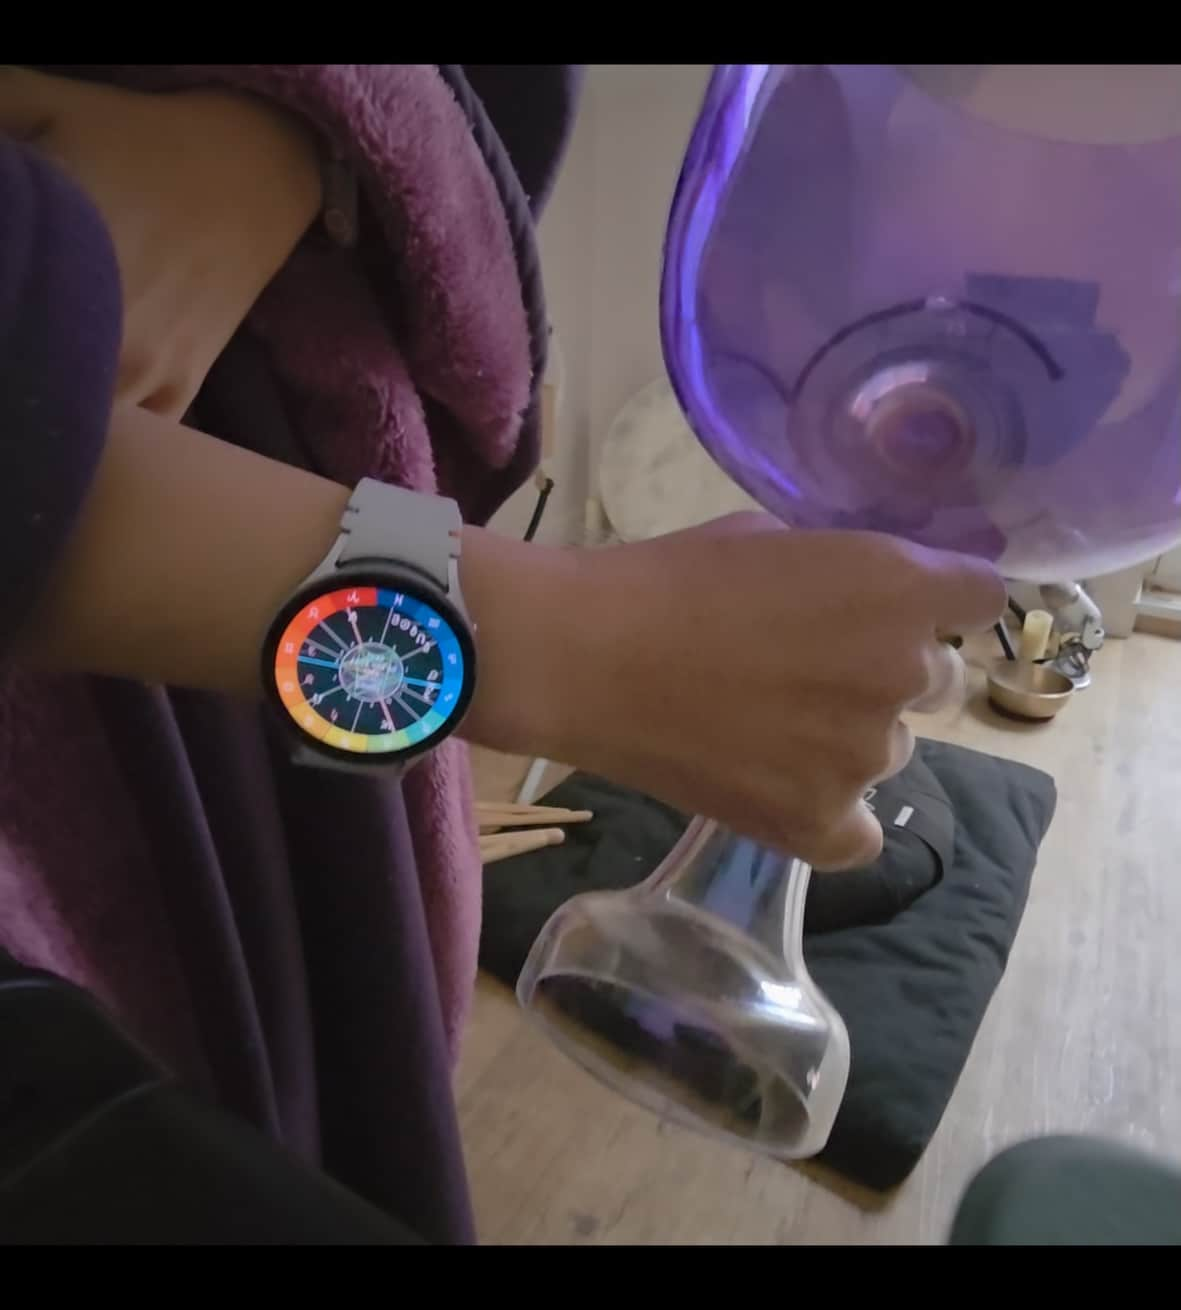
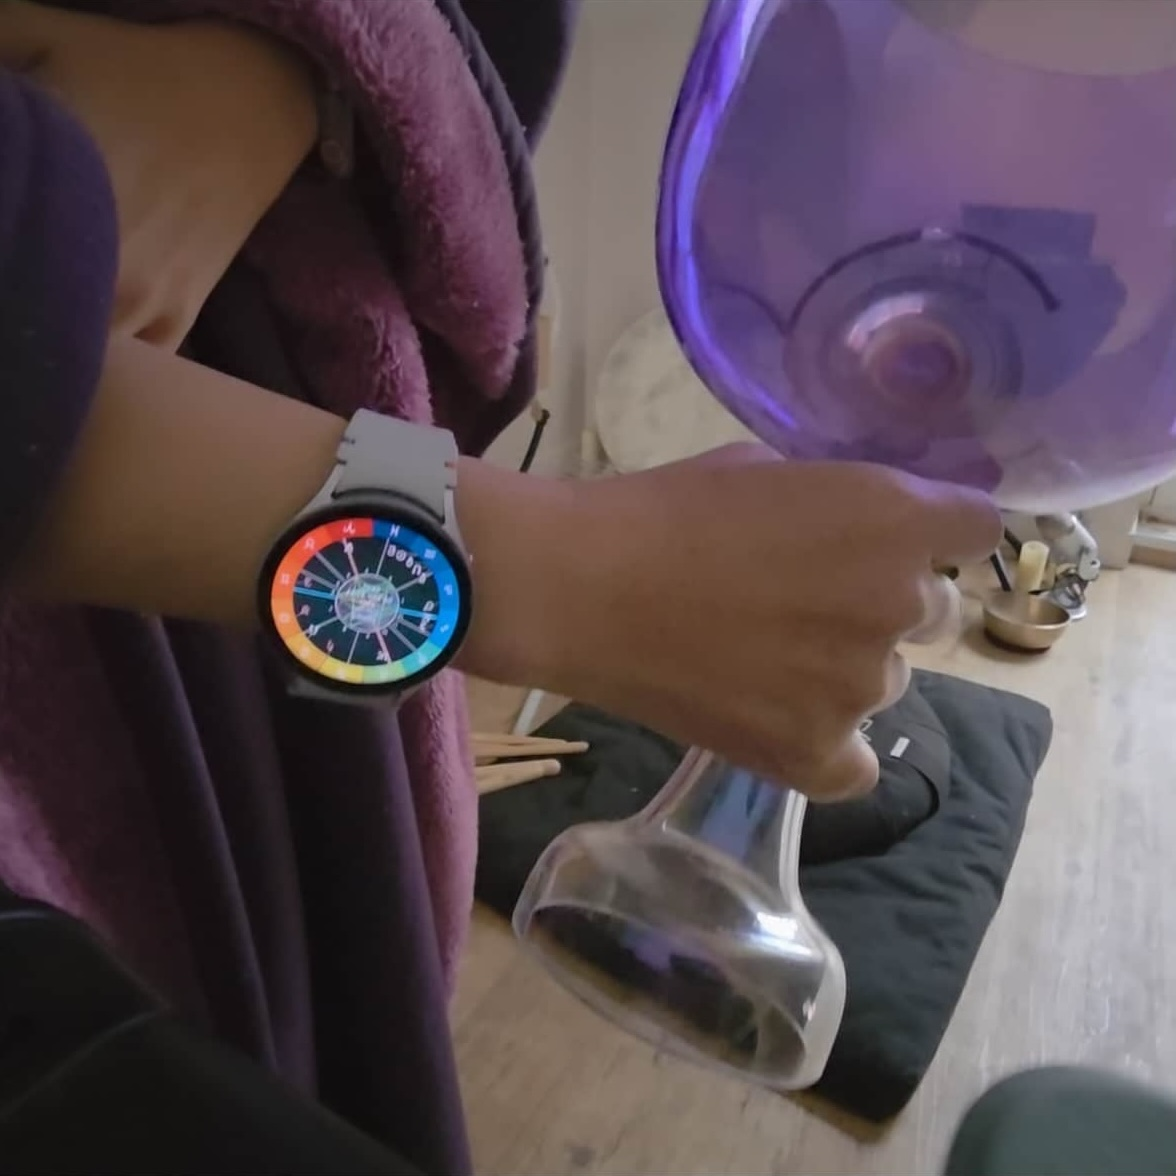
Layout updates

diff --git a/solar-jewel-main.html b/solar-jewel-main.html
@@ -874,7 +874,7 @@
                 <!-- Row 4 (REVERSED): Display Grid Sheet Left, Matrix Copy Right -->
                 <div class="colors-grid colors-grid--reverse">
                     <div class="colors-grid__item">
-                        <h2 style="margin-top: 0 !important;">User Experience Architecture</h2>
+                        <h2 style="margin-top: 0 !important;">User Experience Engineering</h2>
                         <p>I was determined to make the interface as intuitive as possible, though instructions can still be found in the menu if ever needed.</p>
                         <p><strong>A discrete secret for professionals:</strong> You can compare ancient and contemporary geometric spatial framing systems (including Placidus, Porphyry, and several alternate calculation frameworks) dynamically with a responsive horizontal wipe shortcut layout.</p>
                     </div>
@@ -931,29 +931,51 @@
                     </div>
                 </div>
                 
+  
+                                        <h2 style="margin-top: 0 !important;">Quiet Companion</h2>
+                                        <p>It is intended to serve as a quiet companion that provides glanceable enchantment while keeping our hands free for the work of living. So a dedicated partner for those who seek to walk between worlds.</p>
+
                 
                 
-                <!-- Editorial Row Elements (Sequential Media Gallery Layout) -->
-                <p><strong>Quiet Companion</strong></p>
-                <p>It is intended to serve as a quiet companion that provides glanceable enchantment while keeping our hands free for the work of living. So a dedicated partner for those who seek to walk between worlds.</p>
-                
-                <div class="photography-grid__item" style="margin-bottom: 40px;">
-                    <img class="image-100" id="solarjewel-detail" src="img/solarjewel/solarjewel-ceremony-03.jpg" alt="Ceremonial environmental usage profile picture">
+                <div class="colors-grid">
+<!--                    <div class="colors-grid__item">-->
+<!--                        <h2 style="margin-top: 0 !important;">Quiet Companion</h2>-->
+<!--                        <p>It is intended to serve as a quiet companion that provides glanceable enchantment while keeping our hands free for the work of living. So a dedicated partner for those who seek to walk between worlds.</p>-->
+<!--                        -->
+<!--                    </div>-->
+                    
+                    <div class="pcolors-grid__item" style="margin-bottom: 60px;">
+                        <img class="image-100" id="solarjewel-detail" src="img/solarjewel/solarjewel-ceremony-04.jpg" alt="A quiet visual sanctuary display of data safety parameters">
+                    </div>
+                    
+                    <div class="colors-grid__item">
+                        <img class="image-100" id="colors-02" src="img/solarjewel/solarjewel-ceremony-03.jpg" alt="SolarJewel app displayed in a ritual setting alongside a clear crystal harp interface">
+                    </div>
                 </div>
                 
-                <p><strong>A Precision Gradient</strong></p>
-                <p>I have always loved rainbows, so this jewel toned scientific color palette has been tuned for optical harmony to ensure that every sign glows with a balanced and sophisticated light.</p>
                 
-                <div class="photography-grid__item" style="margin-bottom: 60px;">
-                    <img class="image-100" id="solarjewel-detail" src="img/solarjewel/solarjewel-ceremony-02.jpg" alt="Chromatic UI harmony close up graphic asset representation">
+                
+                
+                
+                
+                <div class="colors-grid colors-grid--reverse">
+                    <div class="colors-grid__item">
+                        <h2 style="margin-top: 0 !important;">A Precision Gradient</h2>
+                        <p>I have always loved rainbows, so this jewel toned scientific color palette has been tuned for optical harmony to ensure that every sign glows with a balanced and sophisticated light.</p>
+                    </div>
+                    
+                    <div class="colors-grid__item">
+                        <img class="image-100" id="colors-02" src="img/solarjewel/solarjewel-ceremony-02.jpg" alt="Layout matrix displaying all computational viewing modes of the engine interface">
+                    </div>
                 </div>
+                
                 
                 
                 
 
-                <div class="photography-grid__item" style="margin-bottom: 60px;">
-                    <img class="image-100" id="solarjewel-detail" src="img/solarjewel/solarjewel-ceremony-04.jpg" alt="A quiet visual sanctuary display of data safety parameters">
-                </div>
+<!--                <div class="photography-grid__item" style="margin-bottom: 60px;">-->
+<!--                    <img class="image-100" id="solarjewel-detail" src="img/solarjewel/solarjewel-ceremony-04.jpg" alt="A quiet visual sanctuary display of data safety parameters">-->
+<!--                </div>-->
                 
                 <!-- Polished Configuration Section Entry Point -->
                 <div class="photography-grid__item" style="margin-top: 40px; margin-bottom: 20px;">
